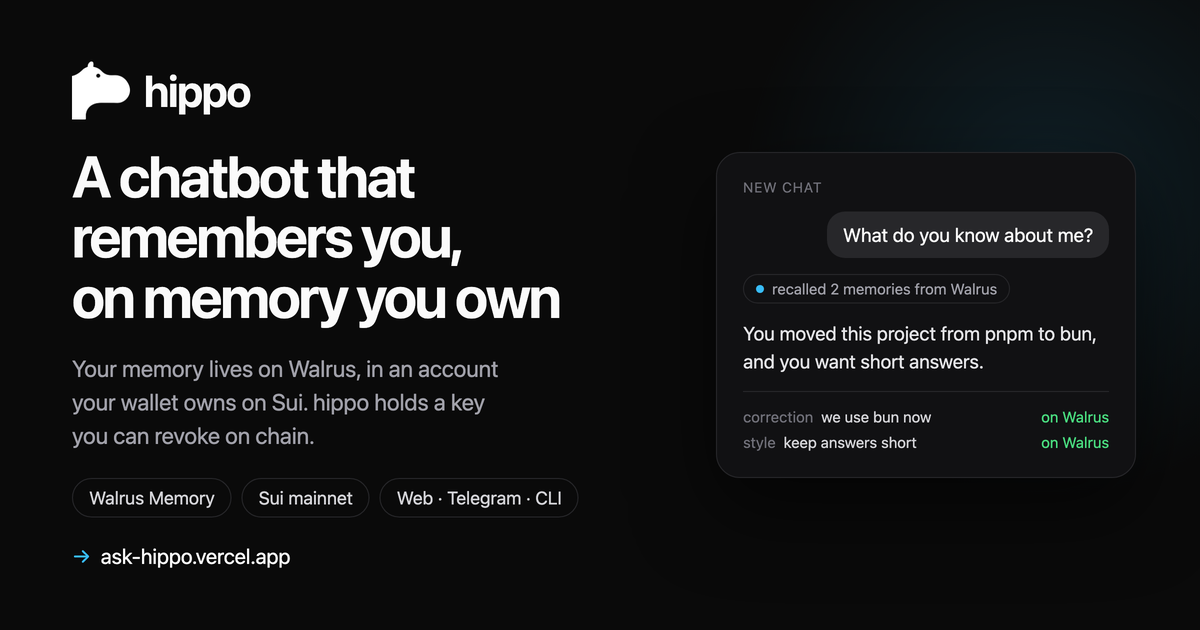
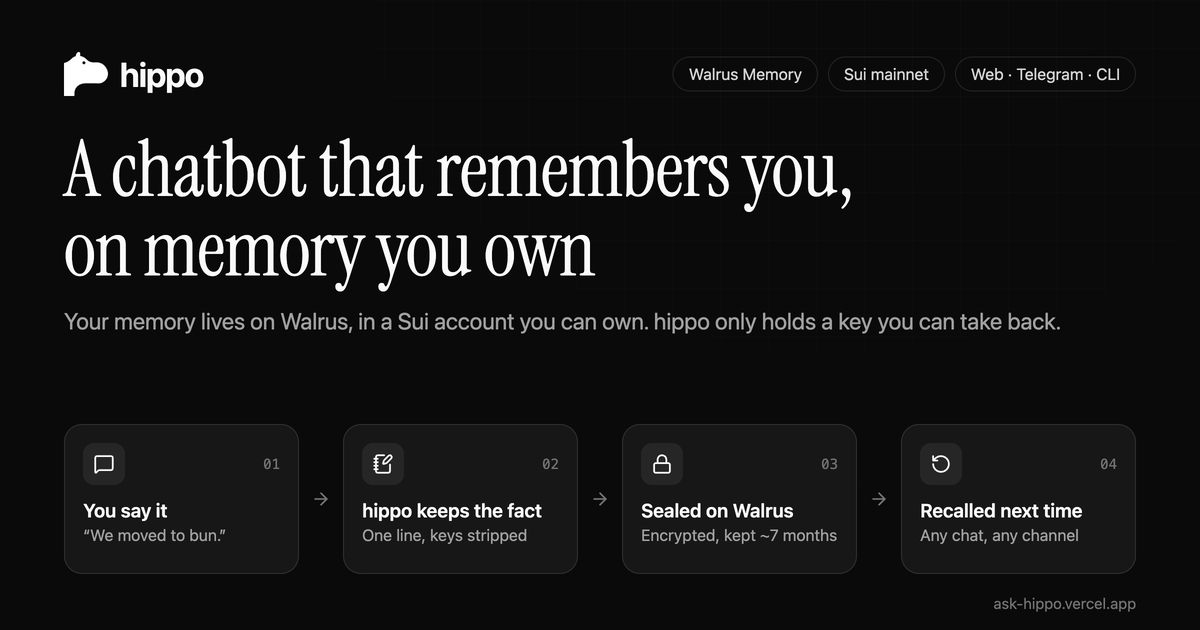
Redraw the social card in the site's current style: serif headline and the four steps of a memory

diff --git a/docs/brand/banner.html b/docs/brand/banner.html
@@ -1,60 +1,81 @@
 <!doctype html><meta charset="utf-8">
+<link rel="stylesheet" href="https://fonts.googleapis.com/css2?family=Instrument+Serif&display=block">
 <style>
   * { box-sizing:border-box; }
   html, body { margin:0; padding:0; background:#0a0a0a; }
   .banner {
-    width:1200px; height:630px; background:#0a0a0a; color:#fafafa;
+    width:1200px; height:630px; background:#0a0a0a; color:#fafafa; position:relative; overflow:hidden;
     font-family:-apple-system, BlinkMacSystemFont, "Segoe UI", Roboto, Helvetica, Arial, sans-serif;
-    display:flex; align-items:center; gap:56px; padding:0 64px 0 72px;
-    position:relative; overflow:hidden;
+    display:flex; flex-direction:column; padding:52px 64px 56px;
   }
-  .glow { position:absolute; right:-160px; top:-120px; width:620px; height:620px;
-          background:radial-gradient(closest-side, rgba(56,189,248,.12), transparent); }
-  .copy { flex:1; display:flex; flex-direction:column; gap:26px; position:relative; }
-  .brand { display:flex; align-items:center; gap:14px; }
-  .brand img { height:58px; width:auto; display:block; }
-  .brand b { font-size:44px; letter-spacing:-.035em; font-weight:650; }
-  h1 { font-size:58px; line-height:1.04; letter-spacing:-.04em; font-weight:650; margin:0; }
-  p { font-size:23px; line-height:1.45; color:#a1a1aa; margin:0; max-width:31ch; }
-  .chips { display:flex; gap:10px; flex-wrap:wrap; }
-  .chip { border:1px solid #27272a; border-radius:999px; padding:8px 16px; font-size:18px; color:#d4d4d8; }
-  .url { font-size:21px; color:#fafafa; display:flex; align-items:center; gap:10px; }
-  .url span { color:#38bdf8; }
-  .chat { width:420px; flex:none; background:#111113; border:1px solid #27272a; border-radius:24px;
-          padding:26px; display:flex; flex-direction:column; gap:16px; position:relative;
-          box-shadow:0 30px 80px rgba(0,0,0,.55); }
-  .label { font-size:14px; color:#71717a; letter-spacing:.06em; text-transform:uppercase; }
-  .me { align-self:flex-end; background:#27272a; border-radius:18px; padding:12px 16px; font-size:19px; }
-  .used { display:inline-flex; align-items:center; gap:8px; font-size:15px; color:#a1a1aa;
-          border:1px solid #27272a; border-radius:999px; padding:5px 12px; align-self:flex-start; }
-  .dot { width:8px; height:8px; border-radius:50%; background:#38bdf8; }
-  .bot { font-size:19px; line-height:1.45; color:#e4e4e7; }
-  .facts { display:flex; flex-direction:column; gap:8px; border-top:1px solid #27272a; padding-top:16px; }
-  .fact { display:flex; justify-content:space-between; gap:12px; font-size:15px; color:#d4d4d8; }
-  .fact em { font-style:normal; color:#71717a; }
-  .ok { color:#4ade80; white-space:nowrap; }
+  .grid { position:absolute; inset:0; opacity:.5;
+          background-image:linear-gradient(#ffffff08 1px, transparent 1px), linear-gradient(90deg, #ffffff08 1px, transparent 1px);
+          background-size:48px 48px; mask-image:radial-gradient(ellipse at 70% 0%, #000 0%, transparent 70%); }
+  .top { display:flex; align-items:center; justify-content:space-between; position:relative; }
+  .brand { display:flex; align-items:center; gap:12px; }
+  .brand img { height:44px; width:auto; display:block; }
+  .brand b { font-size:34px; letter-spacing:-.03em; font-weight:650; }
+  .chips { display:flex; gap:10px; }
+  .chip { border:1px solid #ffffff1a; border-radius:999px; padding:7px 15px; font-size:16px; color:#d4d4d4; }
+  h1 { font-family:"Instrument Serif", Georgia, serif; font-weight:400; font-size:78px; line-height:1.02;
+       letter-spacing:-.01em; margin:34px 0 0; position:relative; }
+  .sub { font-size:23px; line-height:1.4; color:#a1a1a1; margin:16px 0 0; position:relative; }
+  .flow { margin-top:auto; display:flex; align-items:center; gap:12px; position:relative; }
+  .step { flex:1; background:#171717; border:1px solid #ffffff1a; border-radius:18px; padding:18px;
+          display:flex; flex-direction:column; gap:14px; height:150px; }
+  .head { display:flex; align-items:center; justify-content:space-between; }
+  .tile { width:42px; height:42px; border-radius:11px; background:#262626; display:flex; align-items:center; justify-content:center; }
+  .tile svg { width:21px; height:21px; }
+  .num { font-family:ui-monospace, SFMono-Regular, Menlo, monospace; font-size:14px; color:#737373; }
+  .title { font-size:19px; font-weight:600; }
+  .detail { font-size:16px; color:#a1a1a1; margin-top:4px; }
+  .arrow svg { width:20px; height:20px; color:#737373; display:block; }
+  .url { position:absolute; right:64px; bottom:18px; font-size:15px; color:#737373; }
 </style>
 <div class="banner">
-  <div class="glow"></div>
-  <div class="copy">
+  <div class="grid"></div>
+  <div class="top">
     <div class="brand"><img src="mark-white.png" alt=""><b>hippo</b></div>
-    <h1>A chatbot that<br>remembers you,<br>on memory you own</h1>
-    <p>Your memory lives on Walrus, in an account your wallet owns on Sui. hippo holds a key you can revoke on chain.</p>
     <div class="chips">
       <span class="chip">Walrus Memory</span>
       <span class="chip">Sui mainnet</span>
       <span class="chip">Web · Telegram · CLI</span>
     </div>
-    <div class="url"><span>→</span>ask-hippo.vercel.app</div>
   </div>
-  <div class="chat">
-    <div class="label">New chat</div>
-    <div class="me">What do you know about me?</div>
-    <div class="used"><span class="dot"></span>recalled 2 memories from Walrus</div>
-    <div class="bot">You moved this project from pnpm to bun, and you want short answers.</div>
-    <div class="facts">
-      <div class="fact"><span><em>correction</em>&nbsp; we use bun now</span><span class="ok">on Walrus</span></div>
-      <div class="fact"><span><em>style</em>&nbsp; keep answers short</span><span class="ok">on Walrus</span></div>
+  <h1>A chatbot that remembers you,<br>on memory you own</h1>
+  <p class="sub">Your memory lives on Walrus, in a Sui account you can own. hippo only holds a key you can take back.</p>
+  <div class="flow">
+    <div class="step">
+      <div class="head">
+        <span class="tile"><svg viewBox="0 0 24 24" fill="none" stroke="currentColor" stroke-width="2" stroke-linecap="round" stroke-linejoin="round"><path d="M22 17a2 2 0 0 1-2 2H6.828a2 2 0 0 0-1.414.586l-2.202 2.202A.71.71 0 0 1 2 21.286V5a2 2 0 0 1 2-2h16a2 2 0 0 1 2 2z"/></svg></span>
+        <span class="num">01</span>
+      </div>
+      <div><div class="title">You say it</div><div class="detail">“We moved to bun.”</div></div>
+    </div>
+    <span class="arrow"><svg viewBox="0 0 24 24" fill="none" stroke="currentColor" stroke-width="2" stroke-linecap="round" stroke-linejoin="round"><path d="M5 12h14"/><path d="m12 5 7 7-7 7"/></svg></span>
+    <div class="step">
+      <div class="head">
+        <span class="tile"><svg viewBox="0 0 24 24" fill="none" stroke="currentColor" stroke-width="2" stroke-linecap="round" stroke-linejoin="round"><path d="M13.4 2H6a2 2 0 0 0-2 2v16a2 2 0 0 0 2 2h12a2 2 0 0 0 2-2v-7.4"/><path d="M2 6h4"/><path d="M2 10h4"/><path d="M2 14h4"/><path d="M2 18h4"/><path d="M21.378 5.626a1 1 0 1 0-3.004-3.004l-5.01 5.012a2 2 0 0 0-.506.854l-.837 2.87a.5.5 0 0 0 .62.62l2.87-.837a2 2 0 0 0 .854-.506z"/></svg></span>
+        <span class="num">02</span>
+      </div>
+      <div><div class="title">hippo keeps the fact</div><div class="detail">One line, keys stripped</div></div>
+    </div>
+    <span class="arrow"><svg viewBox="0 0 24 24" fill="none" stroke="currentColor" stroke-width="2" stroke-linecap="round" stroke-linejoin="round"><path d="M5 12h14"/><path d="m12 5 7 7-7 7"/></svg></span>
+    <div class="step">
+      <div class="head">
+        <span class="tile"><svg viewBox="0 0 24 24" fill="none" stroke="currentColor" stroke-width="2" stroke-linecap="round" stroke-linejoin="round"><rect width="18" height="11" x="3" y="11" rx="2" ry="2"/><path d="M7 11V7a5 5 0 0 1 10 0v4"/></svg></span>
+        <span class="num">03</span>
+      </div>
+      <div><div class="title">Sealed on Walrus</div><div class="detail">Encrypted, kept ~7 months</div></div>
+    </div>
+    <span class="arrow"><svg viewBox="0 0 24 24" fill="none" stroke="currentColor" stroke-width="2" stroke-linecap="round" stroke-linejoin="round"><path d="M5 12h14"/><path d="m12 5 7 7-7 7"/></svg></span>
+    <div class="step">
+      <div class="head">
+        <span class="tile"><svg viewBox="0 0 24 24" fill="none" stroke="currentColor" stroke-width="2" stroke-linecap="round" stroke-linejoin="round"><path d="M3 12a9 9 0 1 0 9-9 9.75 9.75 0 0 0-6.74 2.74L3 8"/><path d="M3 3v5h5"/></svg></span>
+        <span class="num">04</span>
+      </div>
+      <div><div class="title">Recalled next time</div><div class="detail">Any chat, any channel</div></div>
     </div>
   </div>
+  <div class="url">ask-hippo.vercel.app</div>
 </div>

diff --git a/apps/web/index.html b/apps/web/index.html
@@ -45,7 +45,7 @@
     <meta property="og:image:height" content="630" />
     <meta
       property="og:image:alt"
-      content="hippo: a chatbot that remembers you, on memory you own. A new chat recalls two memories from Walrus."
+      content="hippo: a chatbot that remembers you, on memory you own. A memory goes from what you say, to a fact hippo keeps, to an encrypted blob on Walrus, and is recalled in the next chat."
     />
     <meta name="twitter:card" content="summary_large_image" />
     <meta name="twitter:title" content="hippo — the chatbot that remembers you, on memory you own" />
@@ -56,7 +56,7 @@
     <meta name="twitter:image" content="https://ask-hippo.vercel.app/og.png" />
     <meta
       name="twitter:image:alt"
-      content="hippo: a chatbot that remembers you, on memory you own. A new chat recalls two memories from Walrus."
+      content="hippo: a chatbot that remembers you, on memory you own. A memory goes from what you say, to a fact hippo keeps, to an encrypted blob on Walrus, and is recalled in the next chat."
     />
     <script type="application/ld+json">
       {

diff --git a/README.md b/README.md
@@ -1,5 +1,5 @@
 <p align="center">
-  <img src="apps/web/public/og.png" alt="hippo: a chatbot that remembers you, on memory you own. A new chat recalls two memories from Walrus." width="820">
+  <img src="apps/web/public/og.png" alt="hippo: a chatbot that remembers you, on memory you own. A memory goes from what you say, to a fact hippo keeps, to an encrypted blob on Walrus, and is recalled in the next chat." width="820">
 </p>
 
 <h1 align="center">hippo</h1>
